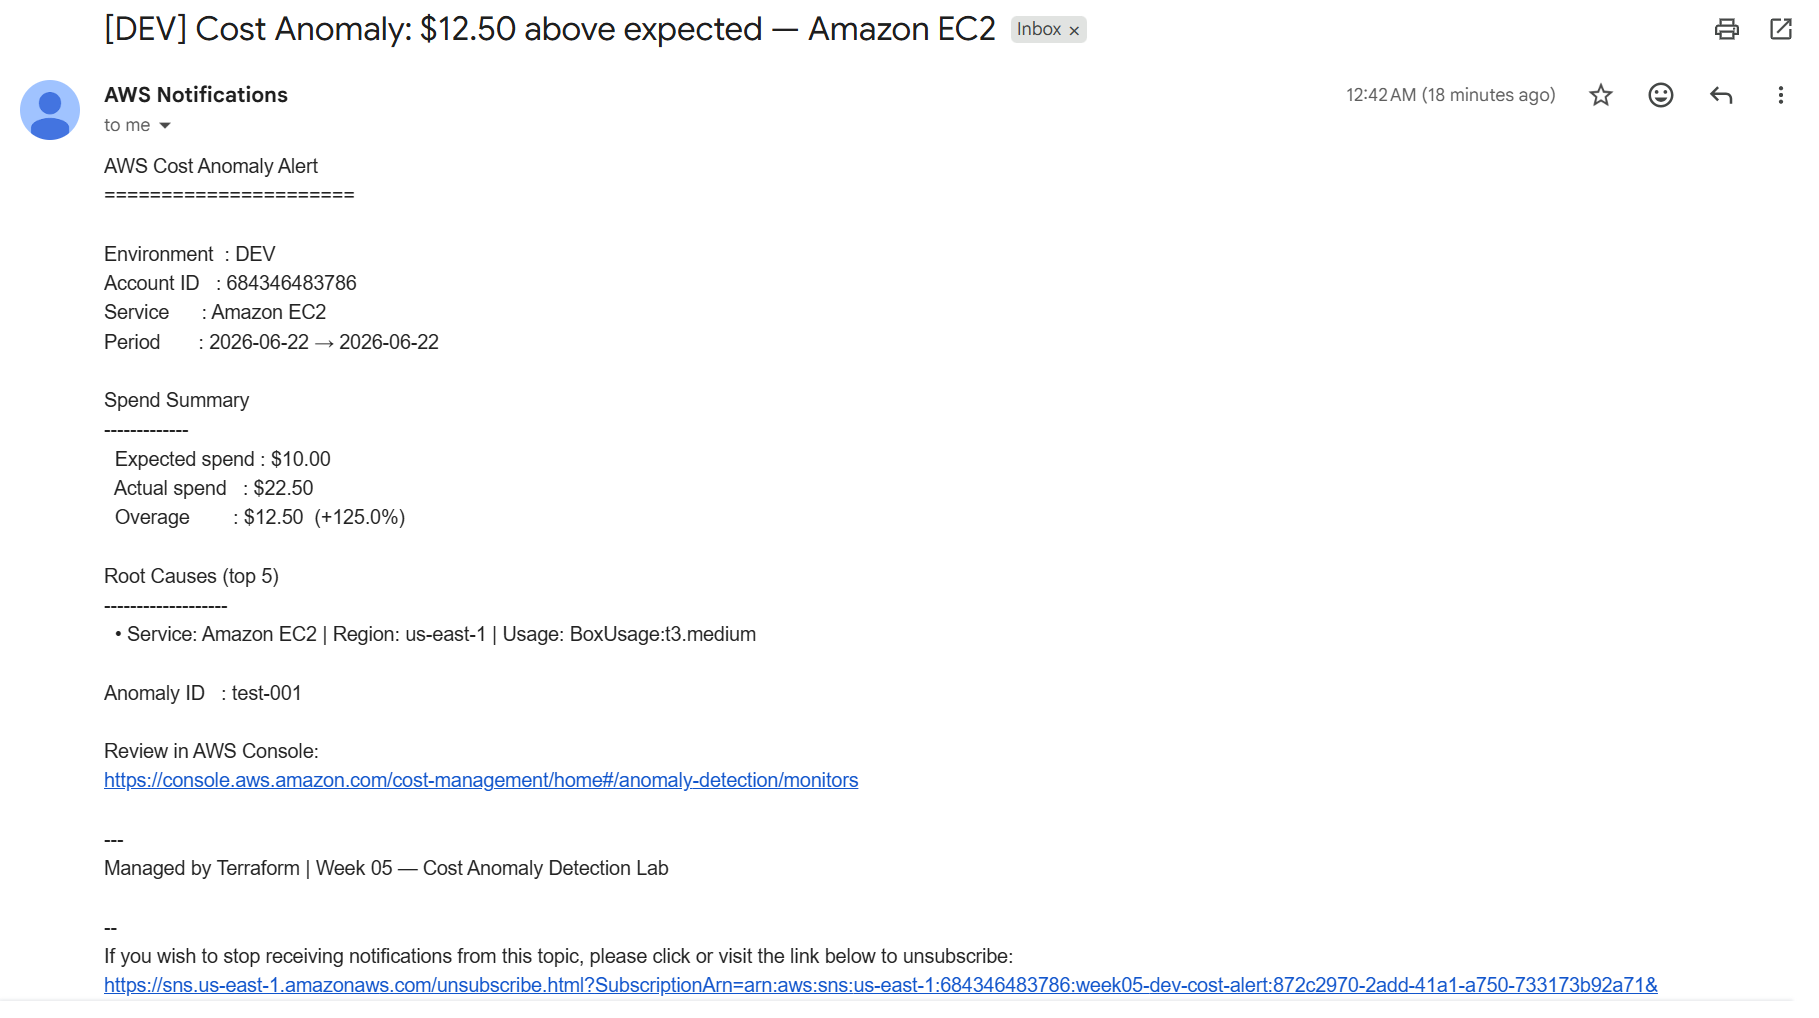
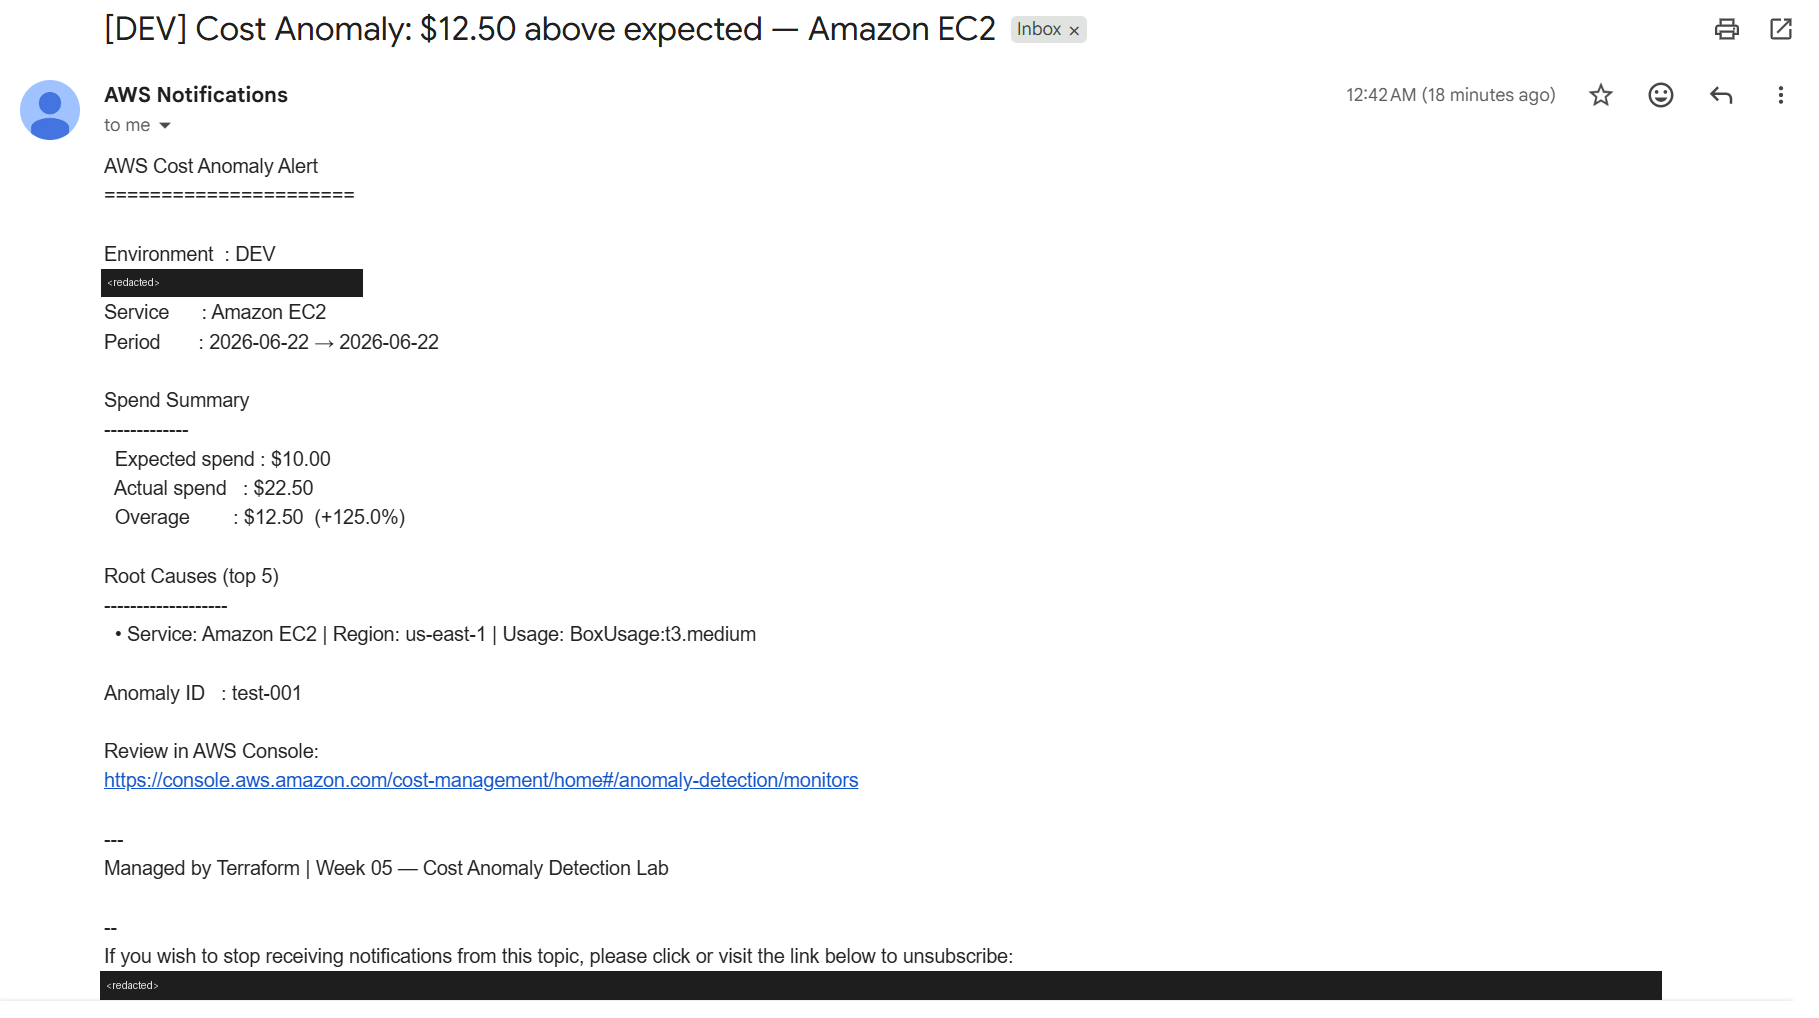
Security sweep: scrub leaked identifiers, harden screenshot tooling
Prompted by two defects found on Week 15 that turned out to be systemic
rather than specific to it. Neither is findable by grep, and both had been
possible since Week 01.

SCRUBBED FROM COMMITTED FILES

  week-01, week-02 cleanup.sh   AWS account ID inside an OIDC provider ARN
  week-03 tfvars.example        personal email address
  week-06 test_webhook.sh       personal email address as a default

The cleanup scripts still need an account ID to satisfy a required
variable during destroy, so they now resolve it from sts:GetCallerIdentity
and fail loudly if that does not work. That is also more correct than the
hardcoded value: the destroy targets whatever account the caller is
authenticated to, so any other account ID would have been wrong.

test_webhook.sh now requires the account email rather than defaulting it.
A vended account is a real AWS account tied to a real mailbox; the address
should be a deliberate choice, not whatever was left in the script.

SCRUBBED FROM PUBLISHED SCREENSHOTS

  week-05 06-cost-alert-email    account ID in the body AND in the
                                 unsubscribe URL's SNS ARN
  week-08 06-sns-confirm         account ID in the SNS topic ARN

Both were hand-taken email screenshots, which never pass through
capture.py and so were never redacted. Week 10 onwards are already clean.

TOOLING

capture.py now refuses to save a page with a sign-in heading or a visible
password field. The redaction assertions only ever answered "did anything
[…]

Changed region(s): [[0.0308, 0.944, 0.9236, 1.0], [0.0308, 0.2436, 0.2155, 0.3045]]

diff --git a/scripts/screenshots/capture.py b/scripts/screenshots/capture.py
@@ -98,6 +98,51 @@ def get_org_account_ids(caller_account_id: str | None) -> list[str]:
         return []
 
 
+def assert_not_a_login_page(page, allow_login_page: bool) -> None:
+    """
+    Refuse to save a screenshot of a sign-in screen.
+
+    The redaction assertions answer "did anything leak", not "did we capture the
+    page we asked for". A login page passes every one of them trivially, because
+    it contains no account ID and no secrets -- it just contains nothing useful.
+
+    Caught the hard way on Week 15 (2026-08-20): an expired HCP session sent both
+    `01-hcp-runs` and `01b-hcp-workspace-variables` to the same sign-in screen.
+    Both saved cleanly, both were reported as captured, and both went into a blog
+    post as two identical pictures of a login form.
+
+    Deliberately narrow. It looks for a sign-in HEADING or a password field, not
+    for the word "login" anywhere on the page -- an IAM console page legitimately
+    says "sign-in" all over itself, and a check that cries wolf gets bypassed.
+    """
+    if allow_login_page:
+        return
+
+    hit = page.evaluate("""
+        () => {
+            const pw = document.querySelector('input[type="password"]');
+            if (pw && pw.offsetParent !== null) return 'a visible password field';
+            for (const el of document.querySelectorAll('h1,h2,[role="heading"]')) {
+                const t = (el.textContent || '').trim().toLowerCase();
+                if (/^(sign in|log in|login|sign in to |welcome back)/.test(t)) {
+                    return 'a heading reading "' + (el.textContent || '').trim().slice(0, 60) + '"';
+                }
+            }
+            return null;
+        }
+    """)
+
+    if hit:
+        raise SystemExit(
+            "REFUSING TO SAVE: this looks like a sign-in page (%s).\n"
+            "The session for this service has expired. Re-run with --headed and\n"
+            "--login-wait-seconds to sign in by hand; the profile is persistent, so\n"
+            "later captures reuse the session.\n"
+            "If the sign-in screen IS the intended subject, pass --allow-login-page."
+            % hit
+        )
+
+
 def assert_not_present(page, needle: str, label: str) -> None:
     """
     Positive check that a secret is genuinely absent from the rendered page.
@@ -424,6 +469,10 @@ def capture(url: str, output_path: Path, wait_selector: str | None, wait_ms: int
             assert_not_present(page, needle, f"the REDACT_EXTRA value '{needle[:4]}...'")
         print("Verified: no unredacted secrets in the rendered page")
 
+        # Separate question from the leak checks above: is this the page we asked
+        # for at all? A sign-in screen passes every redaction assertion.
+        assert_not_a_login_page(page, args.allow_login_page)
+
         # full_page=False (viewport-only, 1400x900) is the deliberate choice
         # here, not full_page=True - SPA pages (AWS Console especially) often
         # reserve DOM height for widgets that never finish loading (e.g. a
@@ -448,6 +497,9 @@ if __name__ == "__main__":
     parser.add_argument("--height", type=int, default=900, help="Viewport height in px - increase for pages with real content below the fold")
     parser.add_argument("--click-text", default=None, help="Exact visible text to click before capturing (for SPA tabs with no addressable URL). Fails loudly rather than capturing the wrong tab.")
     parser.add_argument("--click-wait-ms", type=int, default=5000, help="Wait after the click before capturing")
+    parser.add_argument("--allow-login-page", action="store_true",
+                        help="Permit saving a page that looks like a sign-in screen "
+                             "(only when the sign-in screen is genuinely the subject)")
     parser.add_argument("--allow-unresolved-account", action="store_true",
                         help="Capture even if the AWS account ID cannot be resolved. Only for pages that provably contain no AWS identifiers -- normally you want `aws sso login` instead.")
     args = parser.parse_args()

diff --git a/week-15-cloudtrail-audit-forensics/scripts/render_query.py b/week-15-cloudtrail-audit-forensics/scripts/render_query.py
@@ -21,6 +21,7 @@ Usage:
 """
 import html as _html
 import os
+import re
 import subprocess
 import sys
 import time
@@ -44,6 +45,61 @@ def account_id() -> str:
         ["aws", "sts", "get-caller-identity", "--query", "Account", "--output", "text"],
         capture_output=True, text=True, timeout=30,
     ).stdout.strip()
+
+
+
+# Public IP addresses in your own CloudTrail are YOUR OWN network. `sourceipaddress`
+# on a console action is the address you were sitting behind, and on Week 15 that
+# went into three blog screenshots before anyone noticed -- a residential IP and an
+# IPv6 address, published, while the account ID beside them was being carefully
+# masked. The redactor was answering "is the account ID visible" and nothing else.
+#
+# These are PSEUDONYMISED rather than blanked. Whether two rows share a source
+# address is often the whole point of a forensic query, and replacing every
+# address with the same placeholder destroys that. A stable per-render label
+# keeps "same origin" and "different origin" legible while publishing neither.
+RE_IPV4 = re.compile(r"(?<![\d.])((?:\d{1,3}\.){3}\d{1,3})(?![\d.])")
+RE_IPV6 = re.compile(r"(?<![0-9a-fA-F:])(?:[0-9a-fA-F]{1,4}:){4,}[0-9a-fA-F]{1,4}")
+
+# Ranges that are not the user's network and carry no personal information.
+RE_NON_PUBLIC = re.compile(
+    r"^(10\.|192\.168\.|172\.(1[6-9]|2\d|3[01])\.|127\.|0\.|169\.254\.|22[4-9]\.|23\d\.)"
+)
+
+
+def _is_public_v4(ip: str) -> bool:
+    parts = ip.split(".")
+    if len(parts) != 4:
+        return False
+    try:
+        nums = [int(x) for x in parts]
+    except ValueError:
+        return False
+    # Guards against version strings ("1.43.38.0") being read as addresses.
+    if any(n > 255 for n in nums) or nums[0] == 0 or nums[0] > 223:
+        return False
+    return not RE_NON_PUBLIC.match(ip)
+
+
+def make_ip_pseudonymiser():
+    """One mapping per render, so labels are stable within an image."""
+    seen = {}
+
+    def sub(value: str) -> str:
+        def repl_v4(m):
+            ip = m.group(0)
+            if not _is_public_v4(ip):
+                return ip
+            return "<ip-%d>" % seen.setdefault(ip, len(seen) + 1)
+
+        def repl_v6(m):
+            ip = m.group(0)
+            return "<ipv6-%d>" % seen.setdefault(ip, len(seen) + 1)
+
+        value = RE_IPV6.sub(repl_v6, value)
+        return RE_IPV4.sub(repl_v4, value)
+
+    return sub
 
 
 def org_account_ids(caller: str) -> list[str]:
@@ -133,12 +189,14 @@ def main():
 
     acct = account_id()
     members = org_account_ids(acct)
+    pseudonymise_ips = make_ip_pseudonymiser()
 
     def clean(v: str) -> str:
         # Plain replace. See the module docstring for why this is not a regex.
         v = (v or "").replace(acct, "<account-id>")
         for m in members:
             v = v.replace(m, "<member-account-id>")
+        v = pseudonymise_ips(v)
         # Long values (full user agents, raw requestparameters) push the table
         # past the capture width and get silently clipped at the image edge.
         if len(v) > MAX_CELL:
@@ -176,6 +234,8 @@ at $5/TB &middot; {len(body)} of {len(body)} rows shown</div>
     assert acct not in html, "account ID survived redaction — refusing to render"
     for m in members:
         assert m not in html, f"member account ID {m[:4]}... survived redaction — refusing to render"
+    leaked = sorted({ip for ip in RE_IPV4.findall(html) if _is_public_v4(ip)})
+    assert not leaked, "public IP(s) survived redaction: %s — refusing to render" % ", ".join(leaked)
 
     tmp = Path(out_png).with_suffix(".html")
     tmp.write_text(html, encoding="utf-8")
